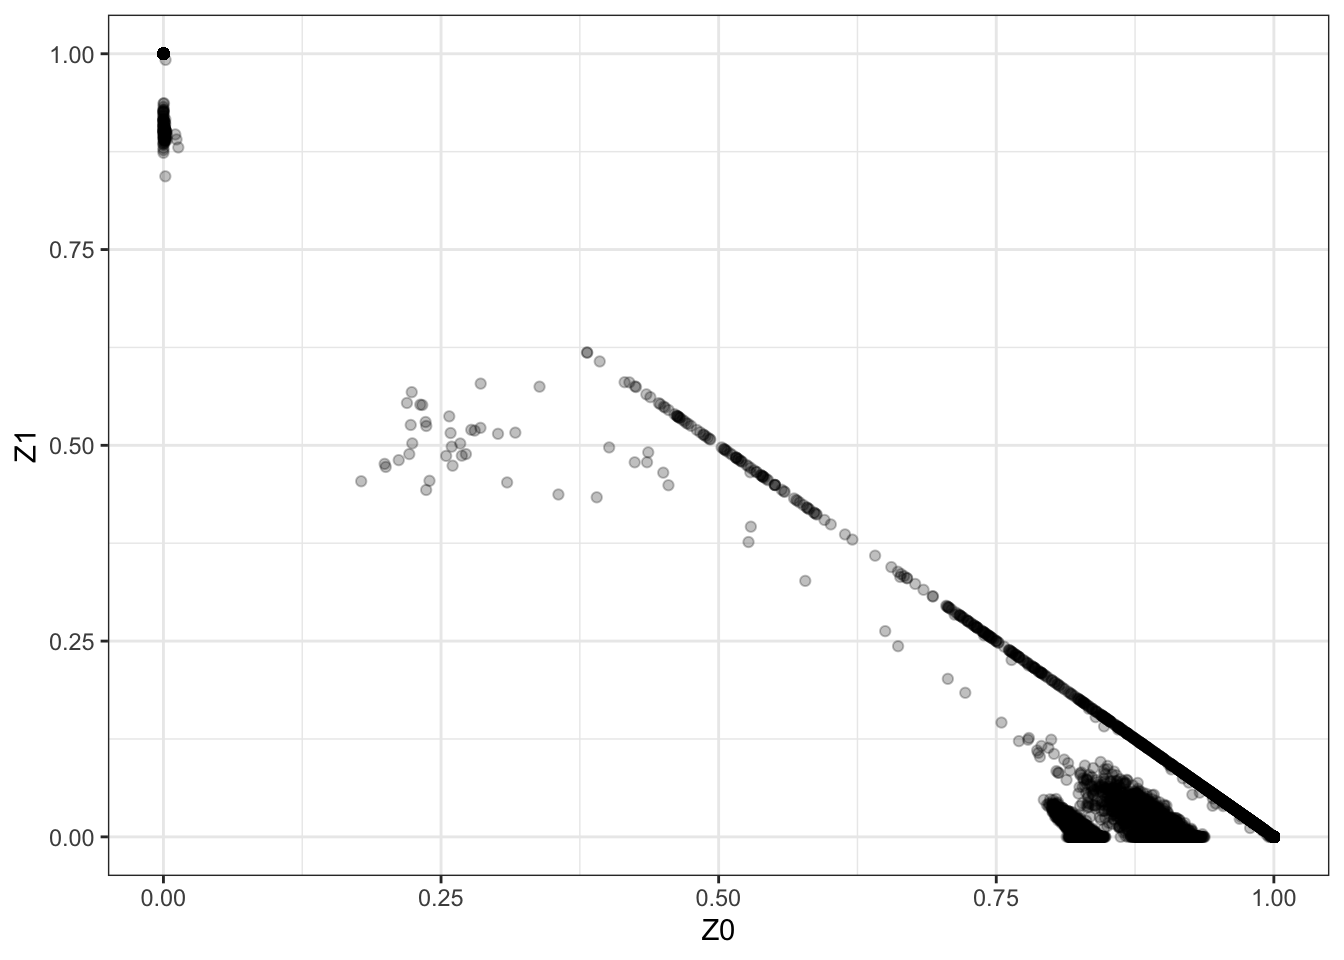
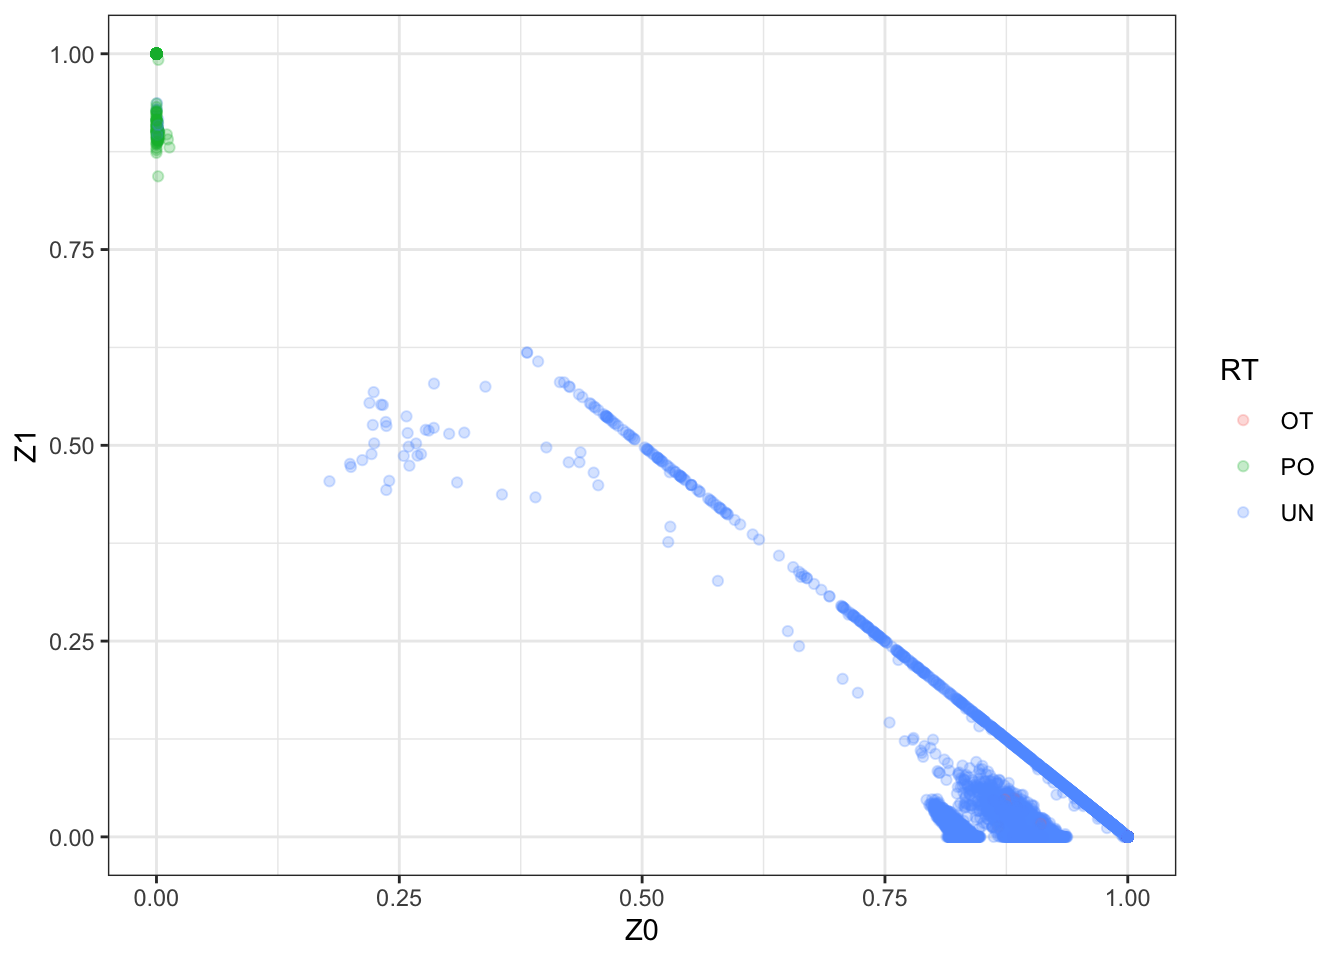
Build site.

diff --git a/docs/Separate_populations.html b/docs/Separate_populations.html
@@ -413,7 +413,7 @@ div.tocify {
 <div class="tab-content">
 <div id="summary" class="tab-pane fade in active">
 <p>
-<strong>Last updated:</strong> 2020-11-17
+<strong>Last updated:</strong> 2020-12-14
 </p>
 <p>
 <strong>Checks:</strong> <span class="glyphicon glyphicon-ok text-success" aria-hidden="true"></span> 7 <span class="glyphicon glyphicon-exclamation-sign text-danger" aria-hidden="true"></span> 0
@@ -504,16 +504,16 @@ This reproducible <a href="http://rmarkdown.rstudio.com">R Markdown</a> analysis
 <div class="panel panel-default">
 <div class="panel-heading">
 <p class="panel-title">
-<a data-toggle="collapse" data-parent="#workflowr-checks" href="#strongRepositoryversionstrongahrefhttpsgithubcomrheapragGWASQCtree712ac0b09332d0e93d3916d7e65752fdc03d2cdctargetblank712ac0ba"> <span class="glyphicon glyphicon-ok text-success" aria-hidden="true"></span> <strong>Repository version:</strong> <a href="https://github.com/rheaprag/GWAS_QC/tree/712ac0b09332d0e93d3916d7e65752fdc03d2cdc" target="_blank">712ac0b</a> </a>
+<a data-toggle="collapse" data-parent="#workflowr-checks" href="#strongRepositoryversionstrongahrefhttpsgithubcomrheapragGWASQCtree84852b878a38cbc89f3141144a0b044842d455ddtargetblank84852b8a"> <span class="glyphicon glyphicon-ok text-success" aria-hidden="true"></span> <strong>Repository version:</strong> <a href="https://github.com/rheaprag/GWAS_QC/tree/84852b878a38cbc89f3141144a0b044842d455dd" target="_blank">84852b8</a> </a>
 </p>
 </div>
[2 lines of base64/hex data omitted]
 <div class="panel-body">
 <p>
 Great! You are using Git for version control. Tracking code development and connecting the code version to the results is critical for reproducibility.
 </p>
 <p>
-The results in this page were generated with repository version <a href="https://github.com/rheaprag/GWAS_QC/tree/712ac0b09332d0e93d3916d7e65752fdc03d2cdc" target="_blank">712ac0b</a>. See the <em>Past versions</em> tab to see a history of the changes made to the R Markdown and HTML files.
+The results in this page were generated with repository version <a href="https://github.com/rheaprag/GWAS_QC/tree/84852b878a38cbc89f3141144a0b044842d455dd" target="_blank">84852b8</a>. See the <em>Past versions</em> tab to see a history of the changes made to the R Markdown and HTML files.
 </p>
 <p>
 Note that you need to be careful to ensure that all relevant files for the analysis have been committed to Git prior to generating the results (you can use <code>wflow_publish</code> or <code>wflow_git_commit</code>). workflowr only checks the R Markdown file, but you know if there are other scripts or data files that it depends on. Below is the status of the Git repository when the results were generated:
@@ -524,6 +524,7 @@ Ignored files:
     Ignored:    .RData
     Ignored:    .Rhistory
     Ignored:    .Rproj.user/
+    Ignored:    analysis/figure/
     Ignored:    data/.DS_Store
 
 Untracked files:
@@ -548,46 +549,90 @@ Untracked files:
     Untracked:  hapmap3_02_1_African.log
     Untracked:  hapmap3_02_1_African.prune.in
     Untracked:  hapmap3_02_1_African.prune.out
-    Untracked:  hapmap3_02_1_ChineseColorado.log
-    Untracked:  hapmap3_02_1_ColoradoChinese.log
     Untracked:  hapmap3_02_1_ColoradoChinese.prune.in
     Untracked:  hapmap3_02_1_ColoradoChinese.prune.out
-    Untracked:  hapmap3_02_1_EastAsia.log
     Untracked:  hapmap3_02_1_EastAsia.prune.in
     Untracked:  hapmap3_02_1_EastAsia.prune.out
-    Untracked:  hapmap3_02_1_Gujarati.log
     Untracked:  hapmap3_02_1_Gujarati.prune.in
     Untracked:  hapmap3_02_1_Gujarati.prune.out
-    Untracked:  hapmap3_02_1_Mexican.log
     Untracked:  hapmap3_02_1_Mexican.prune.in
     Untracked:  hapmap3_02_1_Mexican.prune.out
-    Untracked:  hapmap3_02_1_Toscans.log
     Untracked:  hapmap3_02_1_Toscans.prune.in
     Untracked:  hapmap3_02_1_Toscans.prune.out
-    Untracked:  hapmap3_02_1_Utah.log
     Untracked:  hapmap3_02_1_Utah.prune.in
     Untracked:  hapmap3_02_1_Utah.prune.out
     Untracked:  hapmap3_02_2_African.genome
     Untracked:  hapmap3_02_2_African.log
     Untracked:  hapmap3_02_2_ColoradoChinese.genome
-    Untracked:  hapmap3_02_2_ColoradoChinese.log
     Untracked:  hapmap3_02_2_EastAsia.genome
-    Untracked:  hapmap3_02_2_EastAsia.log
     Untracked:  hapmap3_02_2_Gujarati.genome
-    Untracked:  hapmap3_02_2_Gujarati.log
     Untracked:  hapmap3_02_2_Mexican.genome
-    Untracked:  hapmap3_02_2_Mexican.log
     Untracked:  hapmap3_02_2_Toscans.genome
-    Untracked:  hapmap3_02_2_Toscans.log
     Untracked:  hapmap3_02_2_Utah.genome
-    Untracked:  hapmap3_02_2_Utah.log
+    Untracked:  hapmap3_02_3_African.log
+    Untracked:  hapmap3_African.log
+    Untracked:  hapmap3_African_pca.eigenval
+    Untracked:  hapmap3_African_pca.eigenvec
+    Untracked:  hapmap3_African_pca.log
+    Untracked:  hapmap3_African_pruned.bed
+    Untracked:  hapmap3_African_pruned.bim
+    Untracked:  hapmap3_African_pruned.fam
+    Untracked:  hapmap3_African_pruned.log
+    Untracked:  hapmap3_ColoradoChinese_pca.eigenval
+    Untracked:  hapmap3_ColoradoChinese_pca.eigenvec
+    Untracked:  hapmap3_ColoradoChinese_pca.log
+    Untracked:  hapmap3_ColoradoChinese_pruned.bed
+    Untracked:  hapmap3_ColoradoChinese_pruned.bim
+    Untracked:  hapmap3_ColoradoChinese_pruned.fam
+    Untracked:  hapmap3_ColoradoChinese_pruned.log
+    Untracked:  hapmap3_EastAsia_pca.eigenval
+    Untracked:  hapmap3_EastAsia_pca.eigenvec
+    Untracked:  hapmap3_EastAsia_pca.log
+    Untracked:  hapmap3_EastAsia_pruned.bed
+    Untracked:  hapmap3_EastAsia_pruned.bim
+    Untracked:  hapmap3_EastAsia_pruned.fam
+    Untracked:  hapmap3_EastAsia_pruned.log
+    Untracked:  hapmap3_Gujarati_pca.eigenval
+    Untracked:  hapmap3_Gujarati_pca.eigenvec
+    Untracked:  hapmap3_Gujarati_pca.log
+    Untracked:  hapmap3_Gujarati_pruned.bed
+    Untracked:  hapmap3_Gujarati_pruned.bim
+    Untracked:  hapmap3_Gujarati_pruned.fam
+    Untracked:  hapmap3_Gujarati_pruned.log
+    Untracked:  hapmap3_Mexican_pca.eigenval
+    Untracked:  hapmap3_Mexican_pca.eigenvec
+    Untracked:  hapmap3_Mexican_pca.log
+    Untracked:  hapmap3_Mexican_pruned.bed
+    Untracked:  hapmap3_Mexican_pruned.bim
+    Untracked:  hapmap3_Mexican_pruned.fam
+    Untracked:  hapmap3_Mexican_pruned.log
+    Untracked:  hapmap3_Toscans_pruned.bed
+    Untracked:  hapmap3_Toscans_pruned.bim
+    Untracked:  hapmap3_Toscans_pruned.fam
+    Untracked:  hapmap3_Toscans_pruned.log
+    Untracked:  hapmap3_Utah_pca.eigenval
+    Untracked:  hapmap3_Utah_pca.eigenvec
+    Untracked:  hapmap3_Utah_pca.log
+    Untracked:  hapmap3_Utah_pruned.bed
+    Untracked:  hapmap3_Utah_pruned.bim
+    Untracked:  hapmap3_Utah_pruned.fam
+    Untracked:  hapmap3_Utah_pruned.log
     Untracked:  hapmap3_allpop.genome
     Untracked:  hapmap3_allpop.log
     Untracked:  hapmap3_allpop.prune.in
     Untracked:  hapmap3_allpop.prune.out
+    Untracked:  hapmap3_allpop_pruned.bed
+    Untracked:  hapmap3_allpop_pruned.bim
+    Untracked:  hapmap3_allpop_pruned.fam
+    Untracked:  hapmap3_allpop_pruned.log
+    Untracked:  hapmap3_pca.eigenval
+    Untracked:  hapmap3_pca.eigenvec
+    Untracked:  hapmap3_pca.hh
+    Untracked:  hapmap3_pca.log
     Untracked:  hapmap_African.bed
     Untracked:  hapmap_African.bim
     Untracked:  hapmap_African.fam
+    Untracked:  hapmap_African.het
     Untracked:  hapmap_African.hh
     Untracked:  hapmap_African.log
     Untracked:  hapmap_African_populations.txt
@@ -595,41 +640,31 @@ Untracked files:
     Untracked:  hapmap_ColoradoChinese.bed
     Untracked:  hapmap_ColoradoChinese.bim
     Untracked:  hapmap_ColoradoChinese.fam
-    Untracked:  hapmap_ColoradoChinese.hh
-    Untracked:  hapmap_ColoradoChinese.log
     Untracked:  hapmap_EastAsia.bed
     Untracked:  hapmap_EastAsia.bim
     Untracked:  hapmap_EastAsia.fam
-    Untracked:  hapmap_EastAsia.hh
-    Untracked:  hapmap_EastAsia.log
     Untracked:  hapmap_EastAsia_populations.txt
     Untracked:  hapmap_Gujarati.bed
     Untracked:  hapmap_Gujarati.bim
     Untracked:  hapmap_Gujarati.fam
-    Untracked:  hapmap_Gujarati.log
     Untracked:  hapmap_Gujarati_populations.txt
     Untracked:  hapmap_Mexican.bed
     Untracked:  hapmap_Mexican.bim
     Untracked:  hapmap_Mexican.fam
-    Untracked:  hapmap_Mexican.hh
-    Untracked:  hapmap_Mexican.log
     Untracked:  hapmap_Mexican_populations.txt
     Untracked:  hapmap_Toscans.bed
     Untracked:  hapmap_Toscans.bim
     Untracked:  hapmap_Toscans.fam
-    Untracked:  hapmap_Toscans.log
     Untracked:  hapmap_Toscans_populations.txt
     Untracked:  hapmap_Utah.bed
     Untracked:  hapmap_Utah.bim
     Untracked:  hapmap_Utah.fam
-    Untracked:  hapmap_Utah.hh
-    Untracked:  hapmap_Utah.log
     Untracked:  hapmap_Utah_populations.txt
     Untracked:  plink
     Untracked:  relationships_w_pops_121708.txt
 
 Unstaged changes:
-    Modified:   analysis/02-RelatednessFiltering.Rmd
+    Modified:   analysis/PCA.Rmd
 
 </code></pre>
 <p>
@@ -668,6 +703,40 @@ Message
 </tr>
 </thead>
 <tbody>
+<tr>
+<td>
+Rmd
+</td>
+<td>
+<a href="https://github.com/rheaprag/GWAS_QC/blob/84852b878a38cbc89f3141144a0b044842d455dd/analysis/Separate_populations.Rmd" target="_blank">84852b8</a>
+</td>
+<td>
+rheaprag
+</td>
+<td>
+2020-12-14
+</td>
+<td>
+Fix data
+</td>
+</tr>
+<tr>
+<td>
+html
+</td>
+<td>
+<a href="https://rawcdn.githack.com/rheaprag/GWAS_QC/cf226bcd467a9452005ac2d5c374c815faa604b0/docs/Separate_populations.html" target="_blank">cf226bc</a>
+</td>
+<td>
+rheaprag
+</td>
+<td>
+2020-11-17
+</td>
+<td>
+Build site.
+</td>
+</tr>
 <tr>
 <td>
 Rmd
@@ -768,7 +837,7 @@ Update index.rmd with new files
 <p>The IBD plots would then look like this:</p>
 <pre><code>library(&quot;ggplot2&quot;)
 ibd &lt;- read.table(&quot;hapmap3_allpop.genome&quot;, header = T)
-ggplot(data=ibd,aes(x=Z0,y=Z1))+geom_point(alpha=1/4)+theme_bw()</code></pre>
+ggplot(data=ibd,aes(x=Z0,y=Z1,color=RT))+geom_point(alpha=1/4)+theme_bw()+ylim(0.00, 1.00)</code></pre>
 <p><img src="figure/Separate_populations.Rmd/unnamed-chunk-1-1.png" width="672" style="display: block; margin: auto;" /></p>
 <p>
 <button type="button" class="btn btn-default btn-xs btn-workflowr btn-workflowr-fig" data-toggle="collapse" data-target="#fig-unnamed-chunk-1-1">
@@ -898,7 +967,7 @@ rheaprag
 <pre class="r"><code>sessionInfo()</code></pre>
 <pre><code>R version 4.0.2 (2020-06-22)
 Platform: x86_64-apple-darwin17.0 (64-bit)
-Running under: macOS Catalina 10.15.7
+Running under: macOS  10.16
 
 Matrix products: default
 BLAS:   /Library/Frameworks/R.framework/Versions/4.0/Resources/lib/libRblas.dylib
